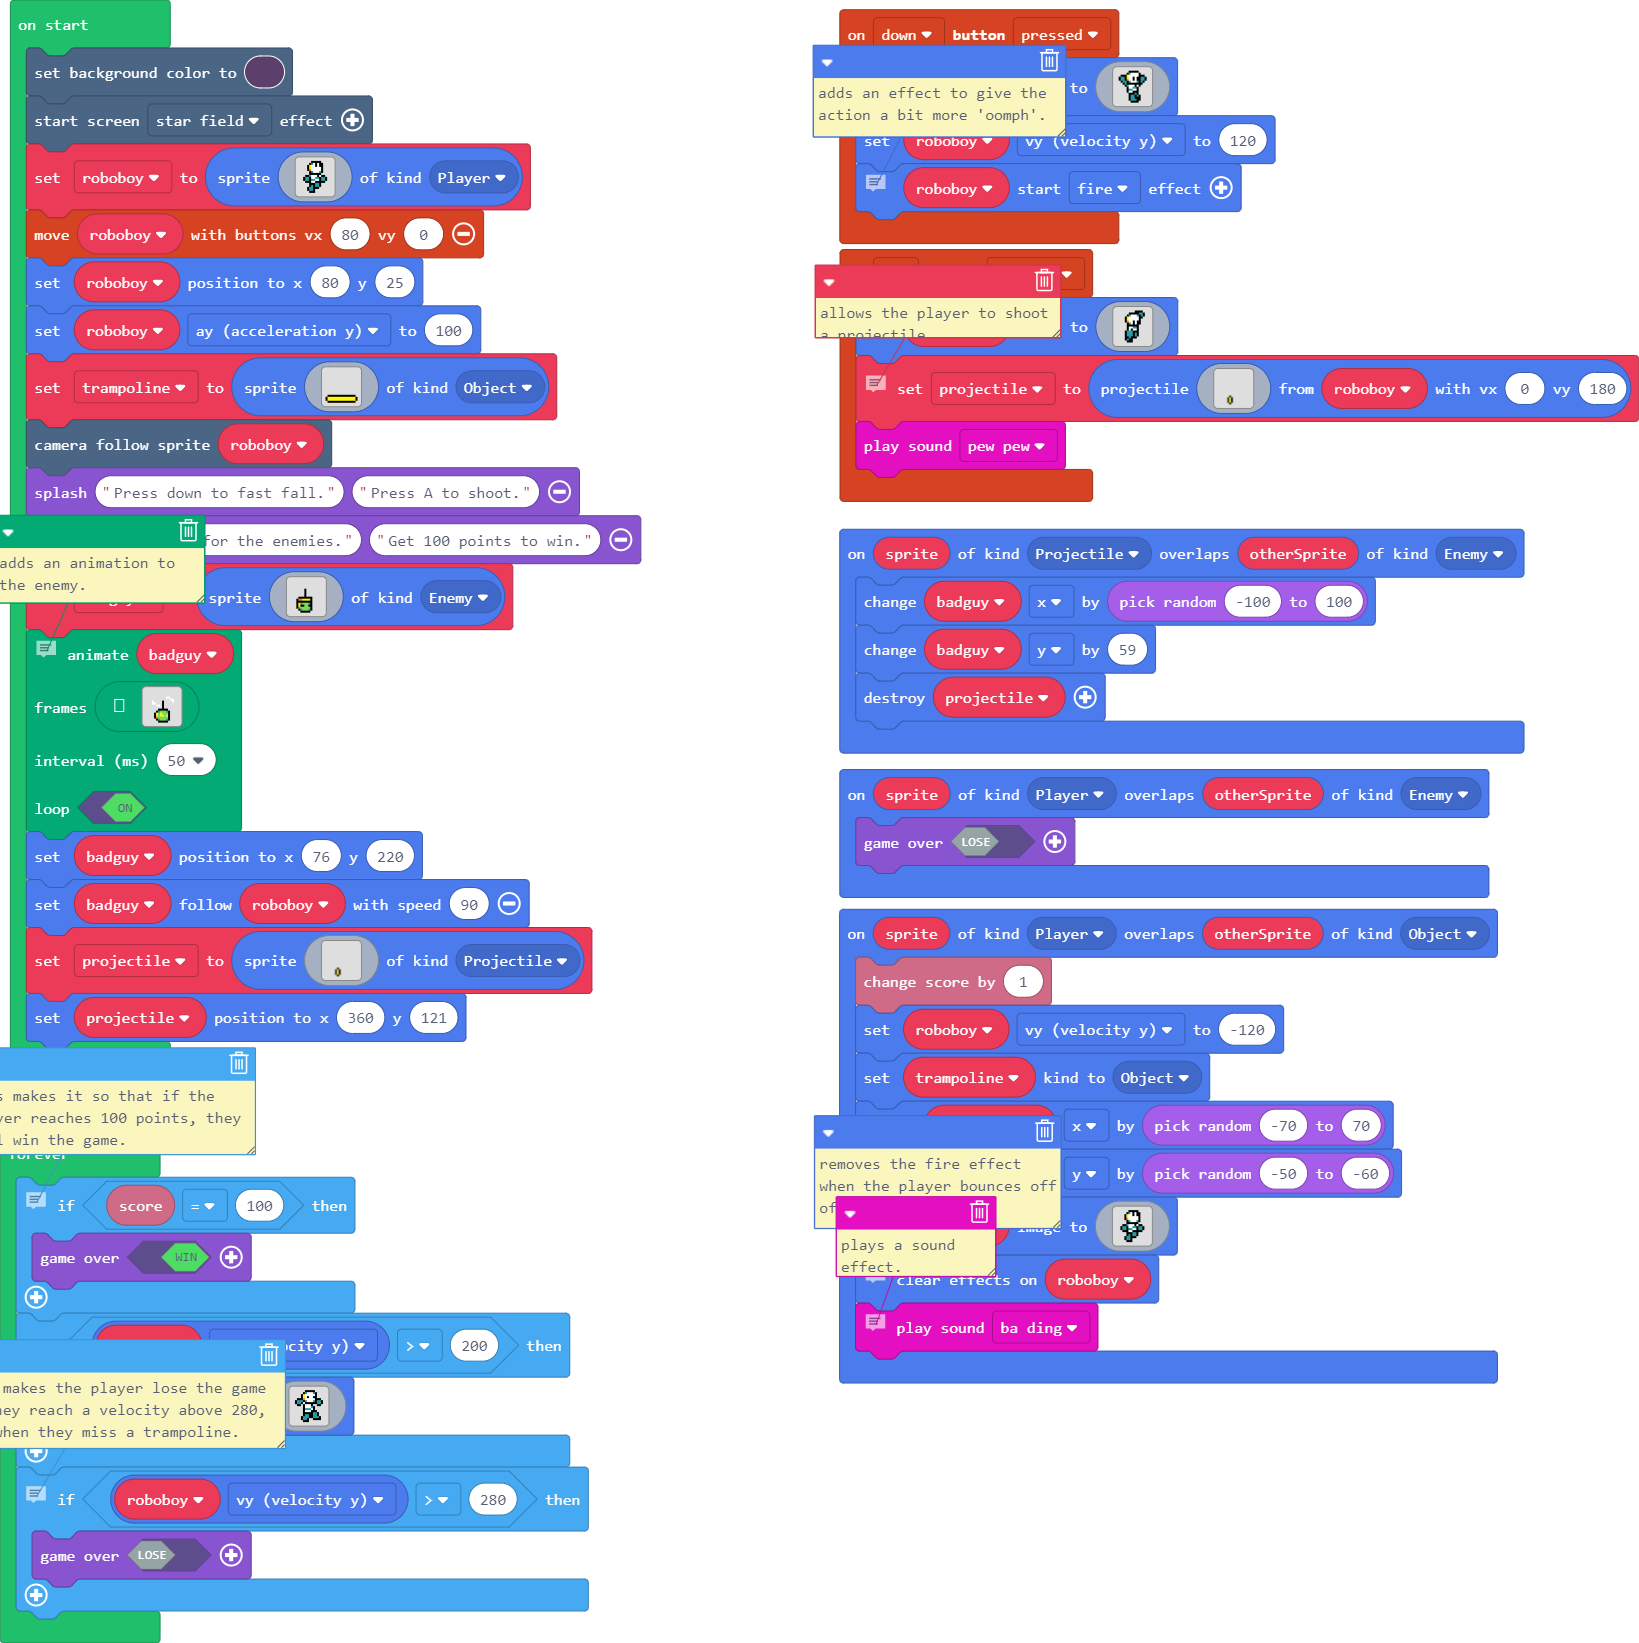
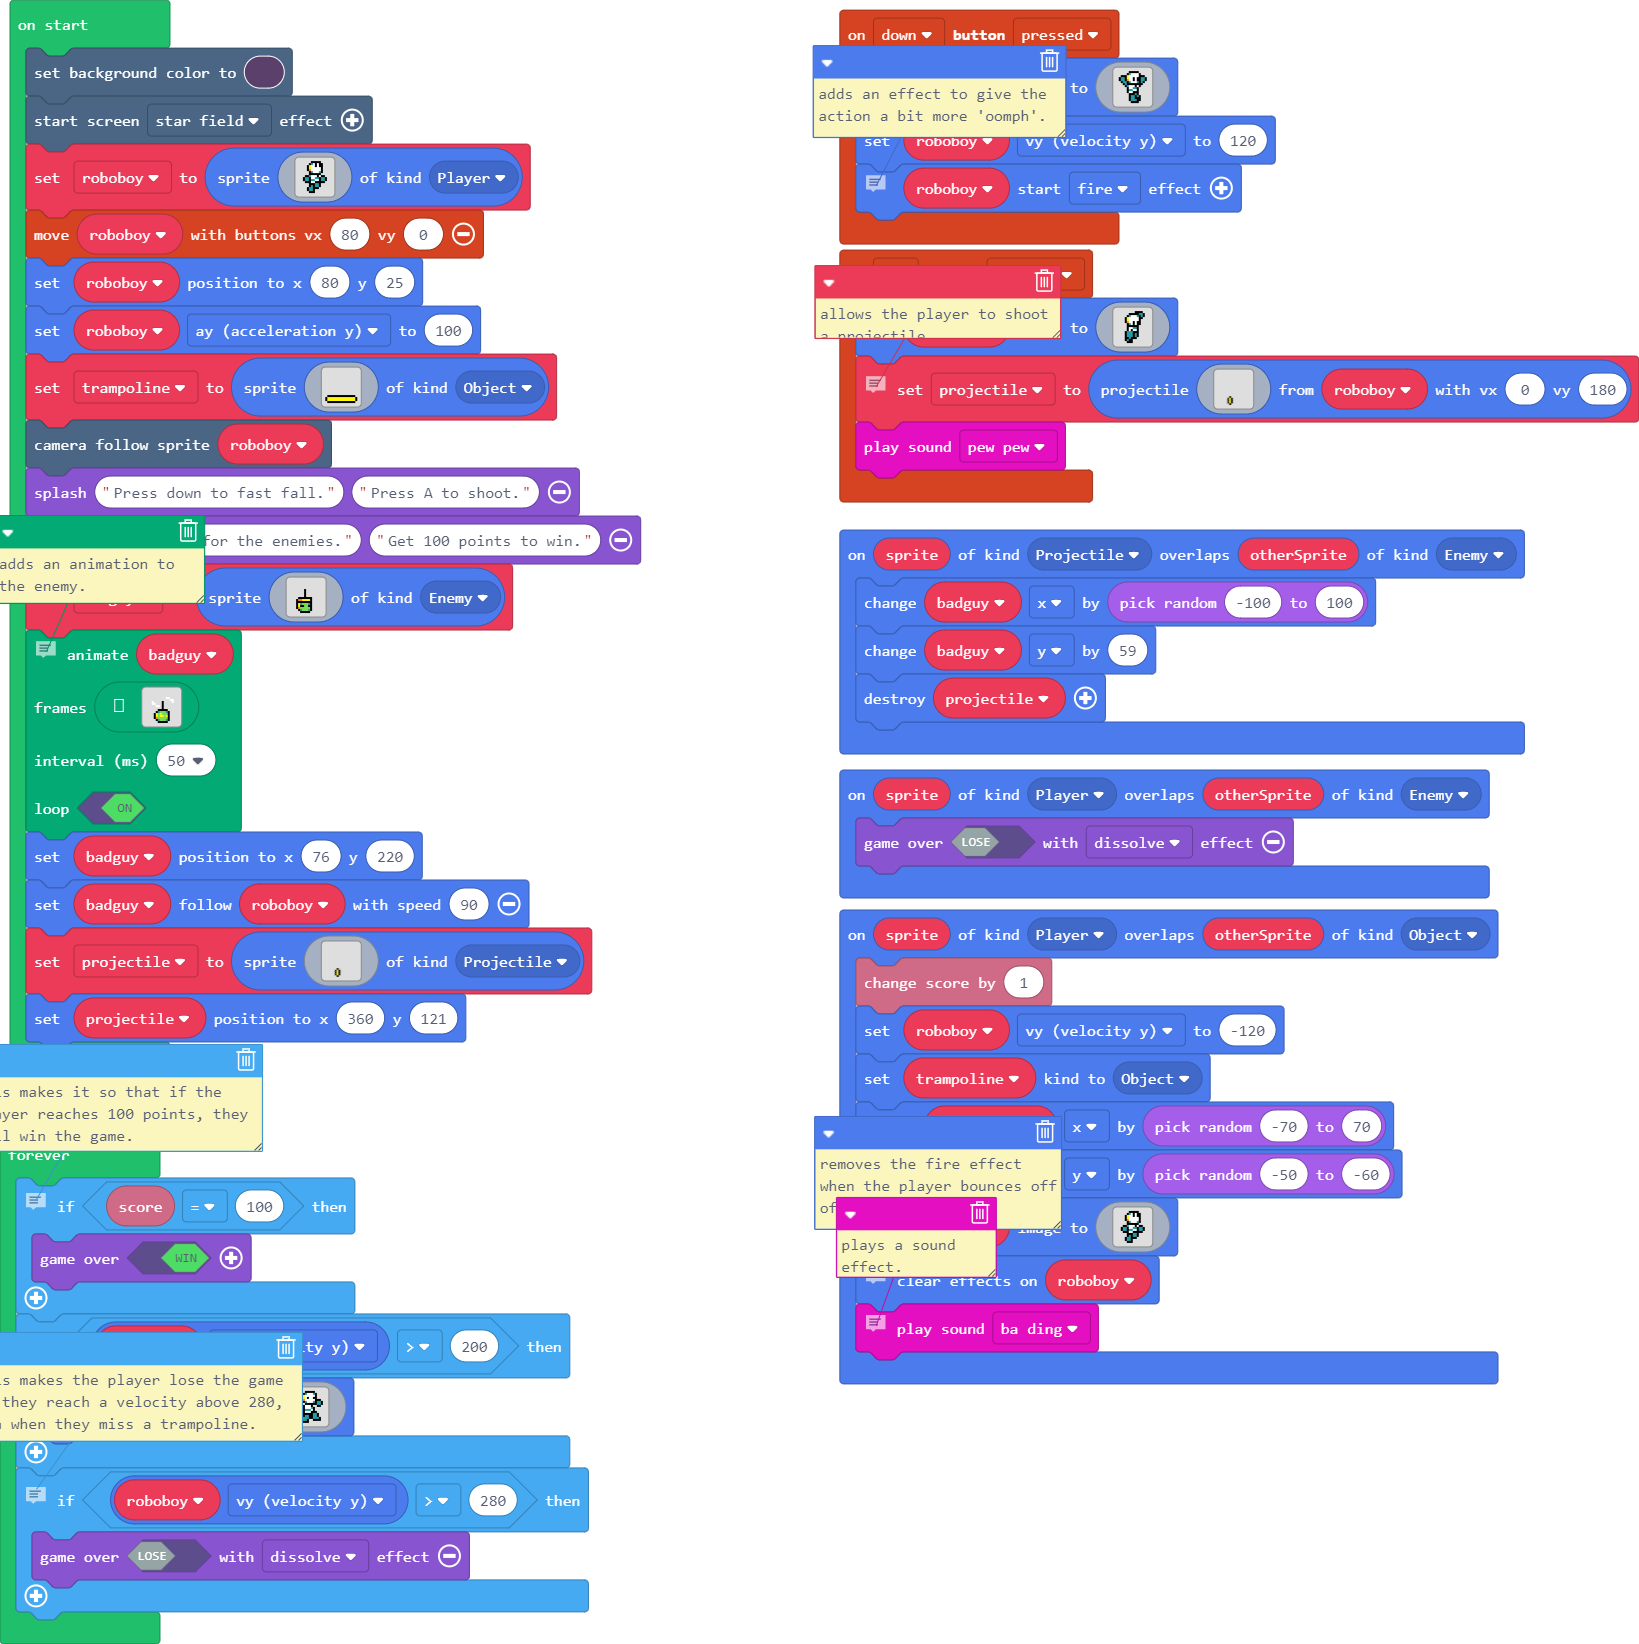
Update main.blocks, main.ts

diff --git a/main.ts b/main.ts
@@ -162,7 +162,7 @@ controller.A.onEvent(ControllerButtonEvent.Pressed, function () {
     music.pewPew.play()
 })
 sprites.onOverlap(SpriteKind.Player, SpriteKind.Enemy, function (sprite, otherSprite) {
-    game.over(false)
+    game.over(false, effects.dissolve)
 })
 let projectile: Sprite = null
 let badguy: Sprite = null
@@ -341,6 +341,6 @@ forever(function () {
     // velocity above 280, aka when they miss a
     // trampoline.
     if (roboboy.vy > 280) {
-        game.over(false)
+        game.over(false, effects.dissolve)
     }
 })
